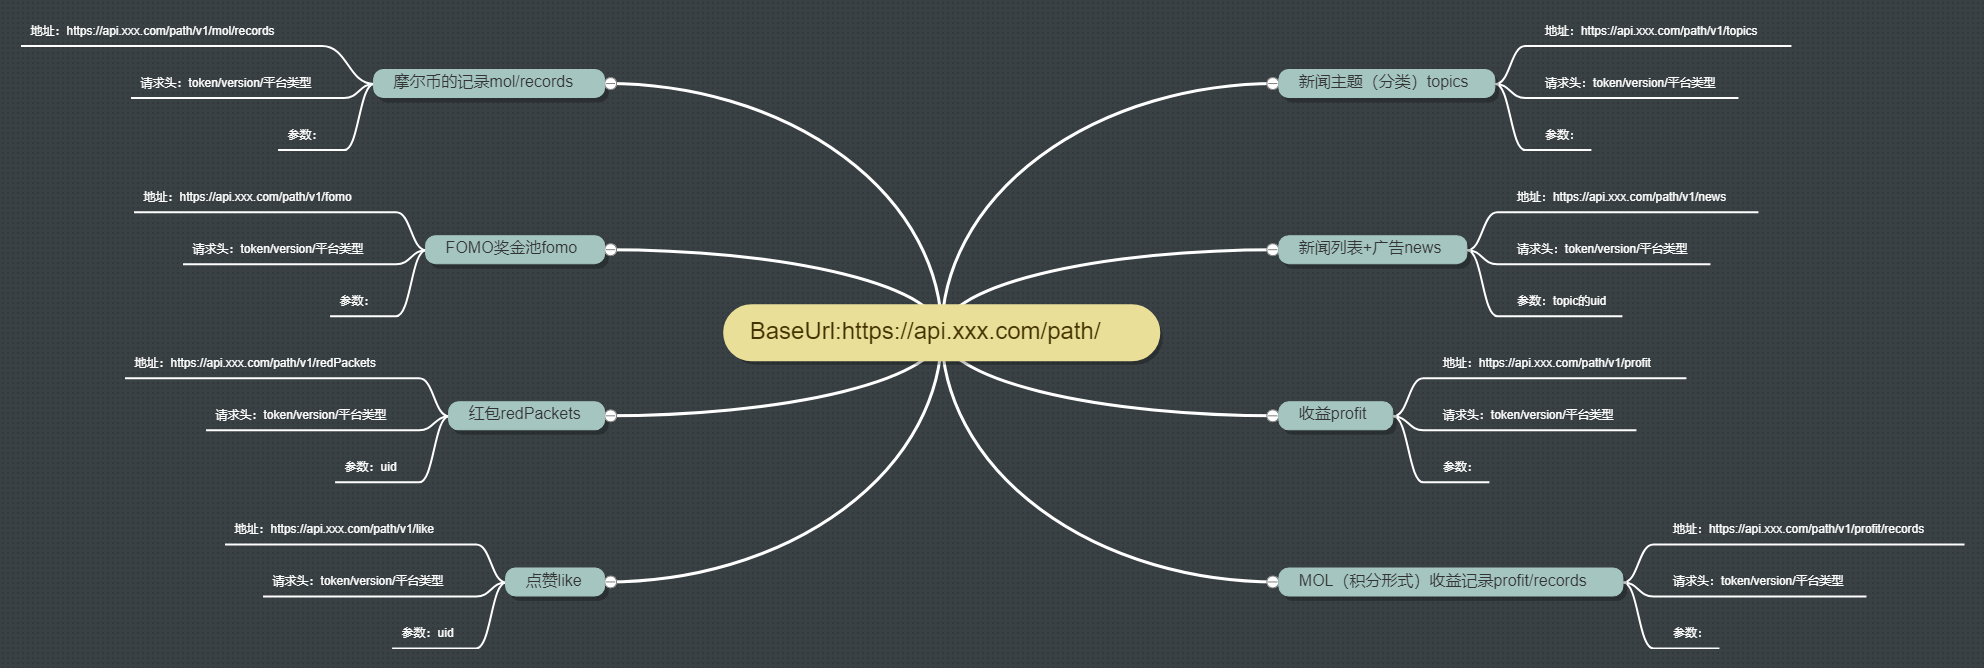
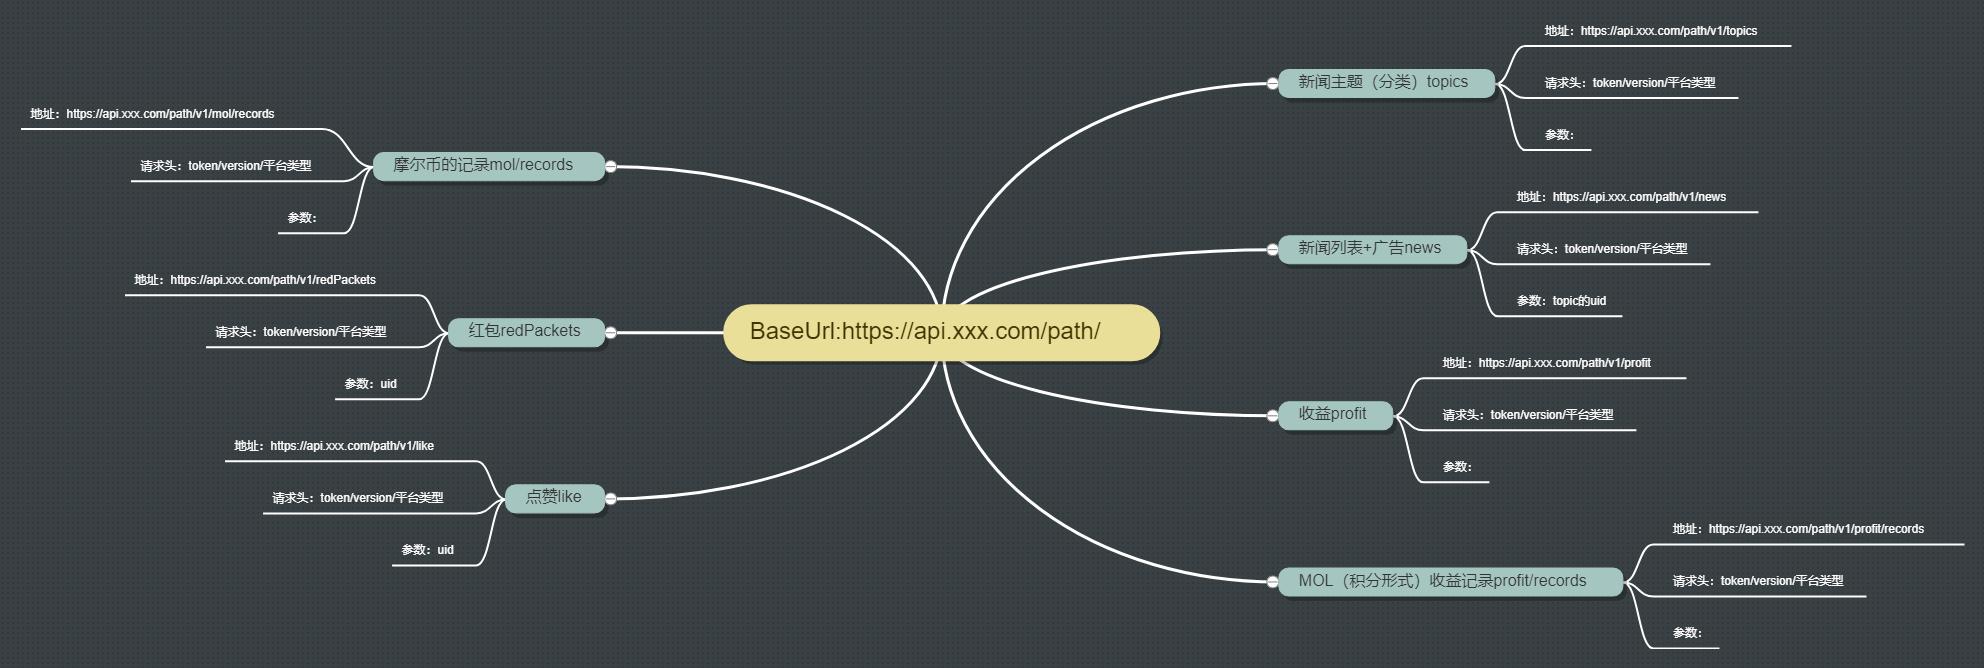
阅读任务

diff --git a/阅读任务/新闻模块REST ful接口设计.md b/阅读任务/新闻模块REST ful接口设计.md
@@ -729,6 +729,74 @@ Pragma: no-cache
 
 ---
 
+### 广告advertisement
+
+这个接口可以被设计成一个通用的、独立的模块，以后所有业务中的撒给用户的币都以积分形式表达，用该接口来查询余额状态。
+
+> 地址：https://api.xxx.com/path/v1/advertisements
+
+##### 请求头
+
+```
+GET /path/v1/advertisements
+Accept: application/json
+Content-Type: application/json;charset=UTF-8
+Token: token_G34G34G34G34G35G5
+AppVersion: 1.1.1
+Platform: Android
+```
+
+##### 参数
+
+?newsUid=2saegweihf82h83qfw
+
+| params   | 类型   | 是否必须 | 描述                                    |
+| -------- | ------ | -------- | --------------------------------------- |
+| keyword  | String | 否       | 同上                                    |
+| sort     | String | 否       | 同上                                    |
+| page     | int    | 否       | 同上                                    |
+| pageSize | int    | 否       | 同上                                    |
+| newsUid  | String | 是       | 通过news的uid来获取广告并显示在新闻头部 |
+
+##### 响应头
+
+```
+HTTP/1.1 200 OK
+Content-Type:application/json; charset=utf-8
+Cache-Control: no-store
+Pragma: no-cache
+```
+
+##### 响应
+
+```
+{
+    "message": "居然被你查询成功了",
+    "code": 200,
+    "data": {
+        "uid": "22t2g23g2t24qt4y43y",
+        "title": "牛市要来了，赶紧上车",
+        "type": "广告类型的uid",
+        "abstract": "还有什么比这更好",
+        "time": "2018-04-23 20:00",
+        "url": "https://www.baidu.com/"
+    }
+}
+```
+
+| key           | 类型   | 是否必须 | 描述                                       |
+| ------------- | ------ | -------- | ------------------------------------------ |
+| message       | String | 是       | 同上                                       |
+| code          | int    | 是       | 同上                                       |
+| data.uid      | String | 是       | 该广告的唯一标识                           |
+| data.title    | String | 是       | 该广告标题                                 |
+| data.type     | String | 是       | 该广告类型（暂时无用处）                   |
+| data.abstract | String | 是       | 该广告摘要                                 |
+| data.time     | String | 是       | 该广告投放时间                             |
+| data.url      | String | 是       | 广告所要跳转的url（广告详情是跳转一个web） |
+
+------
+
 ## 实现方案
 
 ### 新闻来源
@@ -804,22 +872,6 @@ Pragma: no-cache
 2. 后台拿到数据后转成新闻列表接口中要求的格式，然后返回给前端。
 
 这么做的原因是需要做容错机制，因为考虑到该接口不是永远都能用，也没有经过检验，因此我们还要考虑其他方案，万一不能用了，起码不至于强制前端更新App。
-
-### FOMO奖金池的更新问题
-
-现在要求只要有人点赞就会刷新奖金池，并告诉前端的一个倒计时的控件重置到10:00，因此需要后台主动推送到前端来，此时就借助我们的长连接功能，因此要多一个消息类型（即uri），如下所示：
-
-```
-{
-    "uid": "A3BA3BA3BA3BC",
-    "uri": "v1/joinFomo",
-    "data": {
-        一起商议，看是否还需要一些额外的信息给前端，比如点赞的用户信息
-    }
-}
-```
-
-前端通过这个类型的消息就可以刷新界面了。
 
 ### 阅读奖励的请求
 
